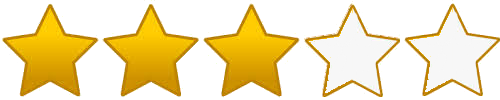
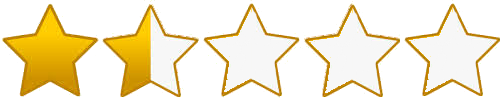
adds amazon rating for each successful delivery

diff --git a/npc_generation.py b/npc_generation.py
@@ -9,6 +9,14 @@ explosion_anim = {}
 explosion_anim['lg'] = []
 explosion_anim['sm'] = []
 explosion_anim['laser'] = []
+explosion_anim['stars'] = []
+
+for i in range(10):
+    filename = 'stars{}.png'.format(i + 1)
+    img = pygame.image.load(path.join(img_dir, filename)).convert()
+    img.set_colorkey(BLACK)
+    img_lg = pygame.transform.scale(img, (100, 20))
+    explosion_anim['stars'].append(img_lg)
 
 for i in range(8):
     filename = 'explosion{}.png'.format(i + 1)
@@ -132,3 +140,21 @@ class Explosion(pygame.sprite.Sprite):
                 self.rect = self.image.get_rect()
                 self.rect.center = center
 
+class StarExplosion(Explosion):
+    def __init__(self, center):
+        super().__init__(center, 'stars')
+        self.frame_rate = 90
+        self.rating = random.randint(5, 10)
+    
+    def update(self):
+        now = pygame.time.get_ticks()
+        if now - self.last_update > self.frame_rate:
+            self.last_update = now
+            self.frame += 1
+            if self.frame == self.rating:
+                self.kill()
+            else:
+                center = self.rect.center
+                self.image = explosion_anim[self.size][self.frame]
+                self.rect = self.image.get_rect()
+                self.rect.center = center

diff --git a/spaceforcegame.py b/spaceforcegame.py
@@ -118,7 +118,7 @@ while running:
     for hit in friendly_package_hits:
         score += 1
         all_sprites.add(
-            Explosion(hit.rect.center, 'laser')
+            StarExplosion(hit.rect.center)
         )
         package_delivered_sound.play()
         new_npc()
